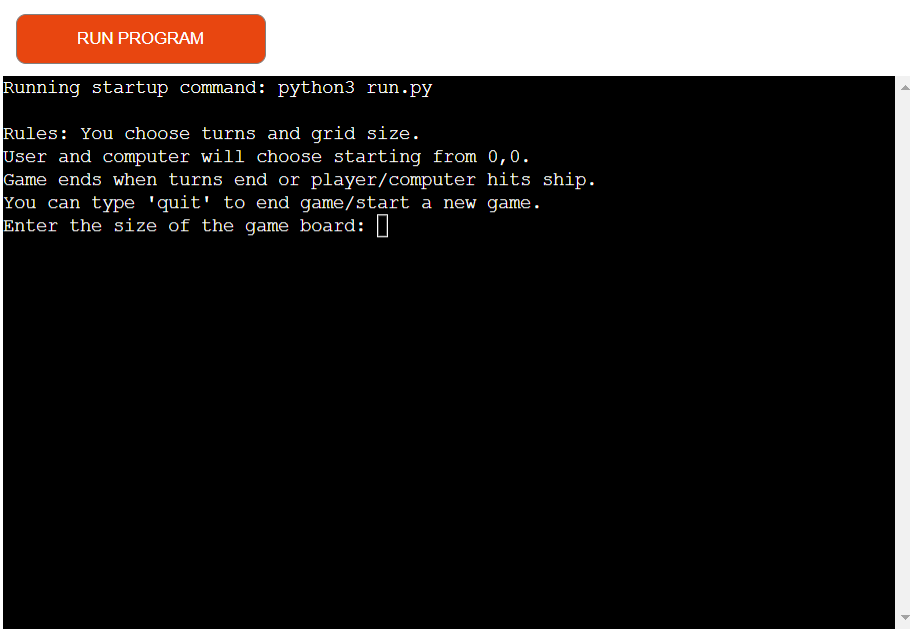
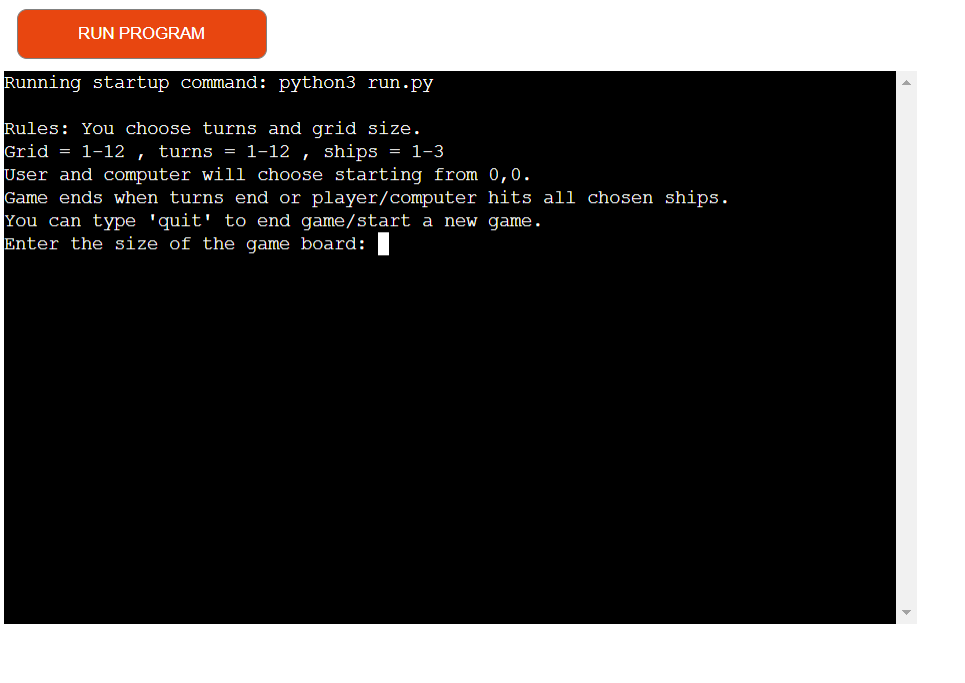
Update photos in readme

Changed region(s): [[0.0, 0.1189, 0.9846, 1.0], [0.0, 0.1784, 0.7385, 0.3865], [0.0, 0.0, 0.9231, 0.1487]]

diff --git a/README.md b/README.md
@@ -2,7 +2,7 @@
 
 This is a Code Institute portfolio project 3 based on python.
 
-![image of battleships app on multi-platforms](readme-images/Battleships-Mockup.png)
+![image of battleships app on multi-platforms](readme-images/Battleships-mockup.png)
 
 ## About
 
@@ -18,6 +18,8 @@ The has the rules explained when you start it up.
 
 You choose the board size and the number of turns between 1 - 12 for you and the computer.
 
+You will also choose number of ships between 1 - 3.
+
 You then play the game as you would normally play a game of battleships.
 
 This is by choosing a column and a row.
@@ -32,7 +34,7 @@ If you either run out of turns or the computer or you hit a ship , the game ends
 
 You can quit at any time by typing the word 'quit'.
 
-![image of battleships app mid way](readme-images/Battleships-Game.png)
+![image of battleships app mid way](readme-images/Battleships-game.png)
 
 ## Testing
 
